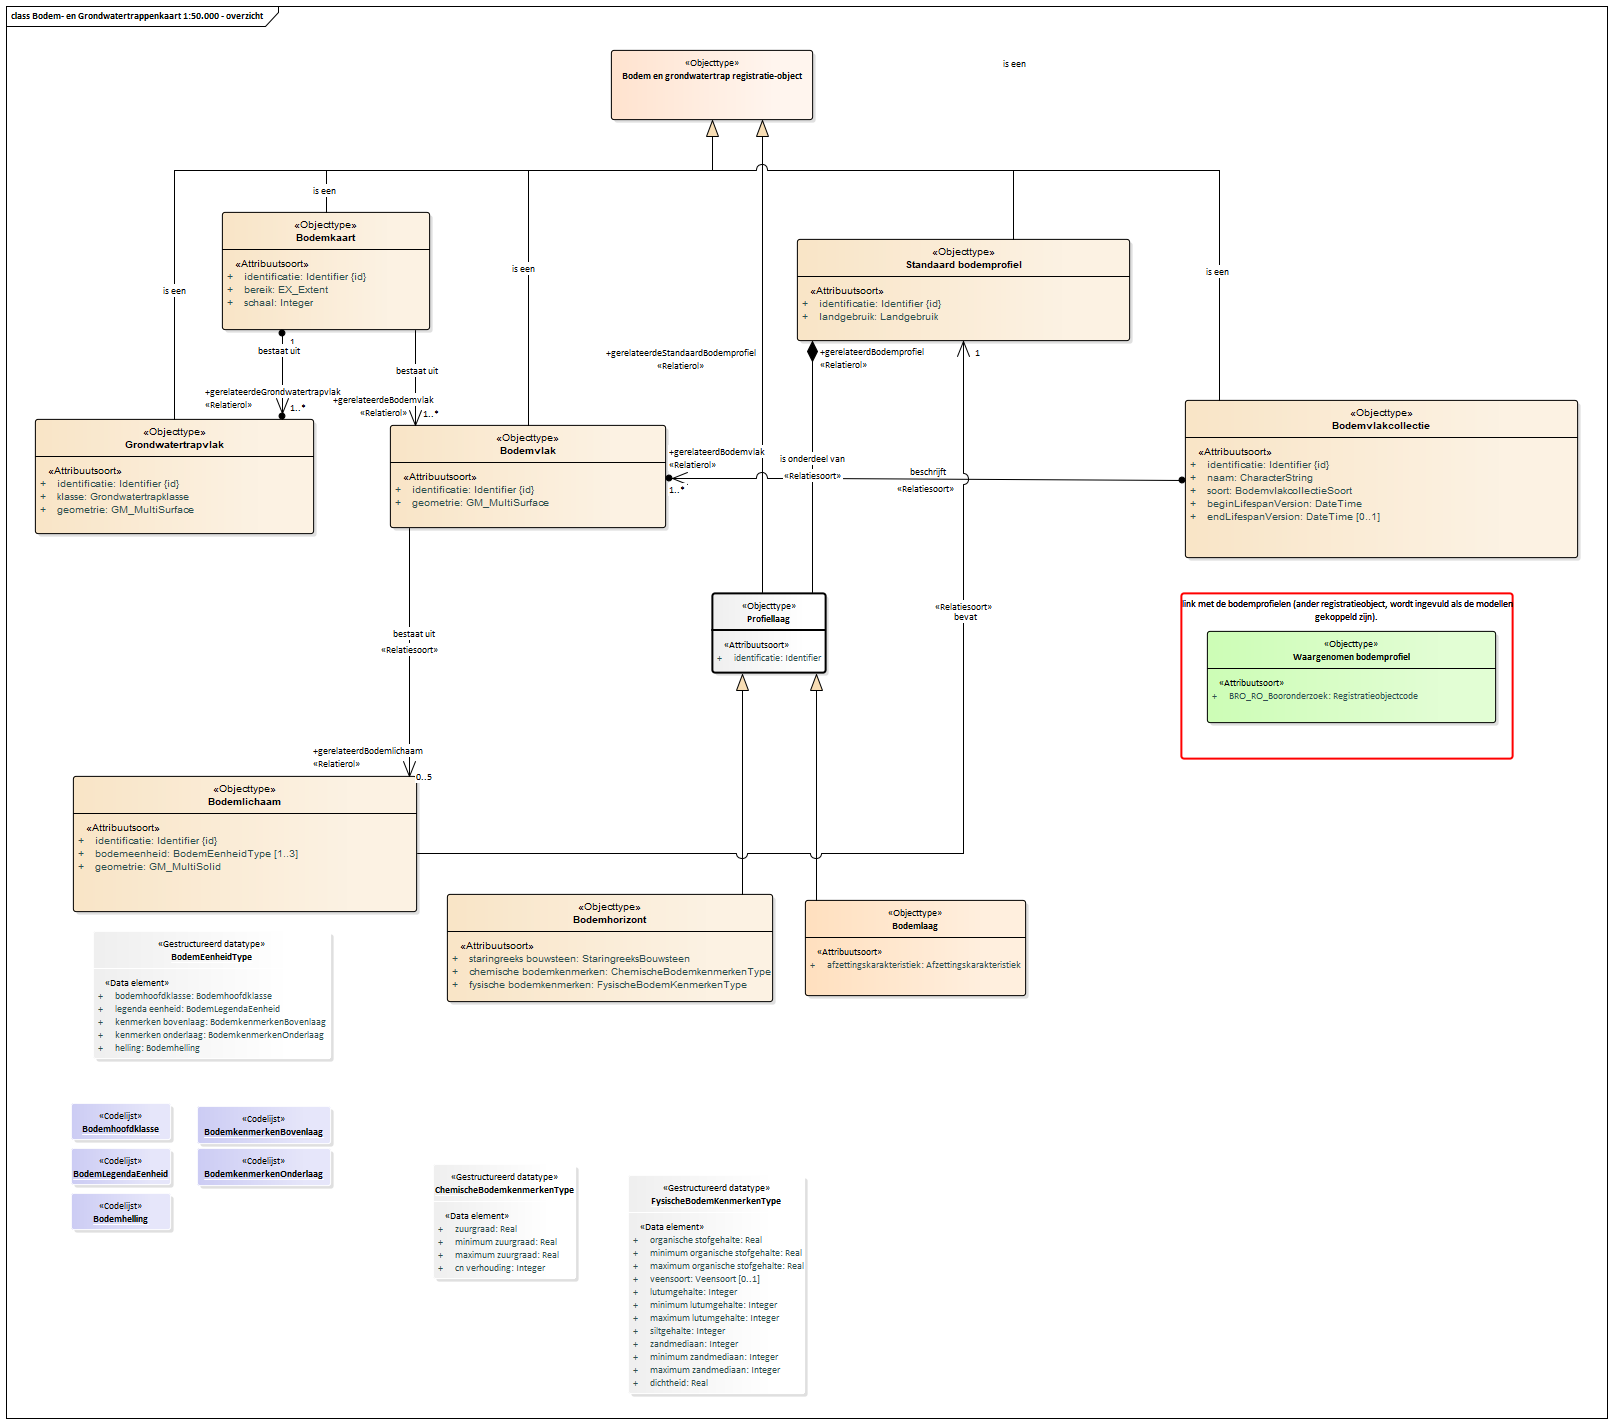
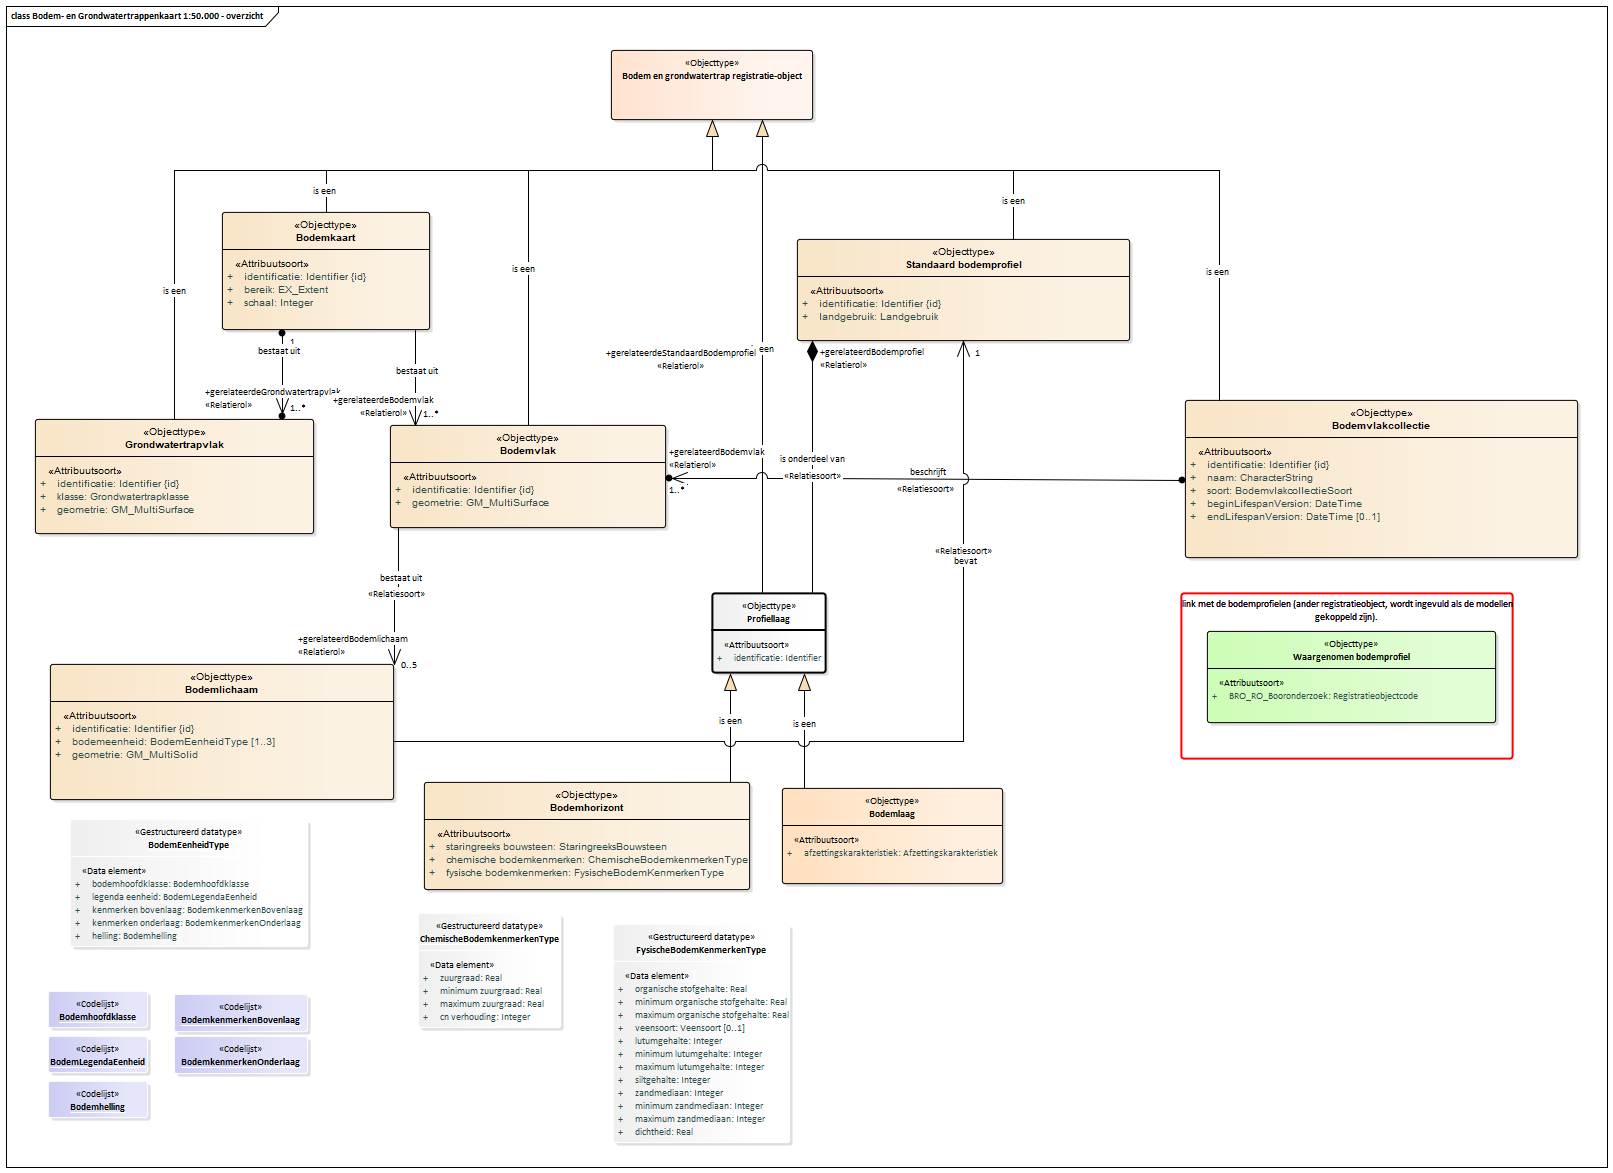
Conceptualmodel-Bodem-enGrondwatertrappenkaartSGM-1.0-1-20180806-20180925-120421

diff --git a/data/SGM-cat.html b/data/SGM-cat.html
@@ -1,31 +1,31 @@
 <h2>Catalogus</h2>
 <p class="note" title="Over deze catalogus">
    Deze catalogus is automatisch samengesteld op basis van het UML model 
-   "Bodem- en Grondwatertrappenkaart (SGM)" door Imvertor 1.47.2 op September 25, 2018 at 09:57:55.
+   "Bodem- en Grondwatertrappenkaart (SGM)" door Imvertor 1.47.2 op September 25, 2018 at 10:04:19.
    <br>
    Wanneer je technische fouten of onvolkomenheden aantreft, geef dit dan door aan <i></i> en geef de code 
-   <i>"Conceptualmodel-Bodem-enGrondwatertrappenkaartSGM-1.0-1-20180806-20180925-115757"</i> door. 
+   <i>"Conceptualmodel-Bodem-enGrondwatertrappenkaartSGM-1.0-1-20180806-20180925-120421"</i> door. 
    
 </p><a class="anchor" name="global_package_Model"></a><section id="global_package_Model">
    <h3>Domein Model</h3>
    <div class="imageinfo overview"><img src="data/Images/EAID_6F1DEB4D_0857_407f_96D1_68CEB4BA18C6.png" usemap="#imagemap-EAID_6F1DEB4D_0857_407f_96D1_68CEB4BA18C6"><map name="imagemap-EAID_6F1DEB4D_0857_407f_96D1_68CEB4BA18C6">
          <area shape="rect" coords="712,673,826,593" alt="" href="#graph_EAID_0A1B4464_10D3_4b80_8F56_64ECFF79B2BF">
-         <area shape="rect" coords="628,1394,805,1175" alt="" href="#graph_EAID_7487B6E9_2821_4136_A6BD_45BCC55D08C4">
-         <area shape="rect" coords="433,1279,576,1164" alt="" href="#graph_EAID_E7CD7773_A9F8_46e0_87D3_D98930256054">
-         <area shape="rect" coords="93,1059,331,931" alt="" href="#graph_EAID_851EC4B0_D56E_4be9_A97B_2603C79F70A0">
+         <area shape="rect" coords="613,1143,790,924" alt="" href="#graph_EAID_7487B6E9_2821_4136_A6BD_45BCC55D08C4">
+         <area shape="rect" coords="418,1028,561,913" alt="" href="#graph_EAID_E7CD7773_A9F8_46e0_87D3_D98930256054">
+         <area shape="rect" coords="70,947,308,819" alt="" href="#graph_EAID_851EC4B0_D56E_4be9_A97B_2603C79F70A0">
          <area shape="rect" coords="611,120,813,50" alt="" href="#graph_EAID_5403E30C_F3F4_4c09_907F_D48BE501C19C">
-         <area shape="rect" coords="71,1230,171,1193" alt="" href="#graph_EAID_155A6898_3C52_4f50_BEEA_5E0FCA823AEB">
-         <area shape="rect" coords="197,1144,331,1106" alt="" href="#graph_EAID_21FF9CA4_F85D_4d76_B3FC_6AD3B00C742C">
-         <area shape="rect" coords="197,1186,331,1148" alt="" href="#graph_EAID_5463CF56_01BC_4f0c_88A7_11F479050C47">
-         <area shape="rect" coords="71,1185,171,1148" alt="" href="#graph_EAID_A496AF46_D3AE_4400_8138_91E0BEFFB6A6">
-         <area shape="rect" coords="71,1140,171,1103" alt="" href="#graph_EAID_195648A8_101B_4368_86F9_28E280667479">
-         <area shape="rect" coords="805,996,1026,900" alt="" href="#graph_EAID_D6147D13_A2CE_4eac_846C_D98CF51FC411">
-         <area shape="rect" coords="447,1002,773,894" alt="" href="#graph_EAID_51B920BD_F7BA_420b_8BC2_F95666441BBE">
+         <area shape="rect" coords="48,1118,148,1081" alt="" href="#graph_EAID_155A6898_3C52_4f50_BEEA_5E0FCA823AEB">
+         <area shape="rect" coords="174,1032,308,994" alt="" href="#graph_EAID_21FF9CA4_F85D_4d76_B3FC_6AD3B00C742C">
+         <area shape="rect" coords="174,1074,308,1036" alt="" href="#graph_EAID_5463CF56_01BC_4f0c_88A7_11F479050C47">
+         <area shape="rect" coords="48,1073,148,1036" alt="" href="#graph_EAID_A496AF46_D3AE_4400_8138_91E0BEFFB6A6">
+         <area shape="rect" coords="48,1028,148,991" alt="" href="#graph_EAID_195648A8_101B_4368_86F9_28E280667479">
+         <area shape="rect" coords="782,884,1003,788" alt="" href="#graph_EAID_D6147D13_A2CE_4eac_846C_D98CF51FC411">
+         <area shape="rect" coords="424,890,750,782" alt="" href="#graph_EAID_51B920BD_F7BA_420b_8BC2_F95666441BBE">
          <area shape="rect" coords="35,534,314,419" alt="" href="#graph_EAID_2F5C99E2_C8D7_4c0d_B6C3_7292ACD90AEE">
          <area shape="rect" coords="222,330,430,212" alt="" href="#graph_EAID_6C32C465_2A2D_4ebd_8809_CFA672B233B2">
          <area shape="rect" coords="797,341,1130,239" alt="" href="#graph_EAID_F7554868_9447_4c85_91F2_85A060A04221">
          <area shape="rect" coords="1207,723,1496,631" alt="" href="#graph_EAID_A1837B5E_AAEC_4abd_AD4E_490E18AC9B51">
-         <area shape="rect" coords="73,912,417,776" alt="" href="#graph_EAID_937AC71F_F454_49a3_8257_4ED3B68B25F1">
+         <area shape="rect" coords="50,800,394,664" alt="" href="#graph_EAID_937AC71F_F454_49a3_8257_4ED3B68B25F1">
          <area shape="rect" coords="1185,558,1578,400" alt="" href="#graph_EAID_D299245E_D76A_4628_9E60_A0D563127253">
          <area shape="rect" coords="390,528,666,425" alt="" href="#graph_EAID_1A0B021D_CECB_4888_896B_045EDB9287FB"></map><p><b>Bodem- en Grondwatertrappenkaart 1:50.000 - overzicht</b></p>
    </div>
